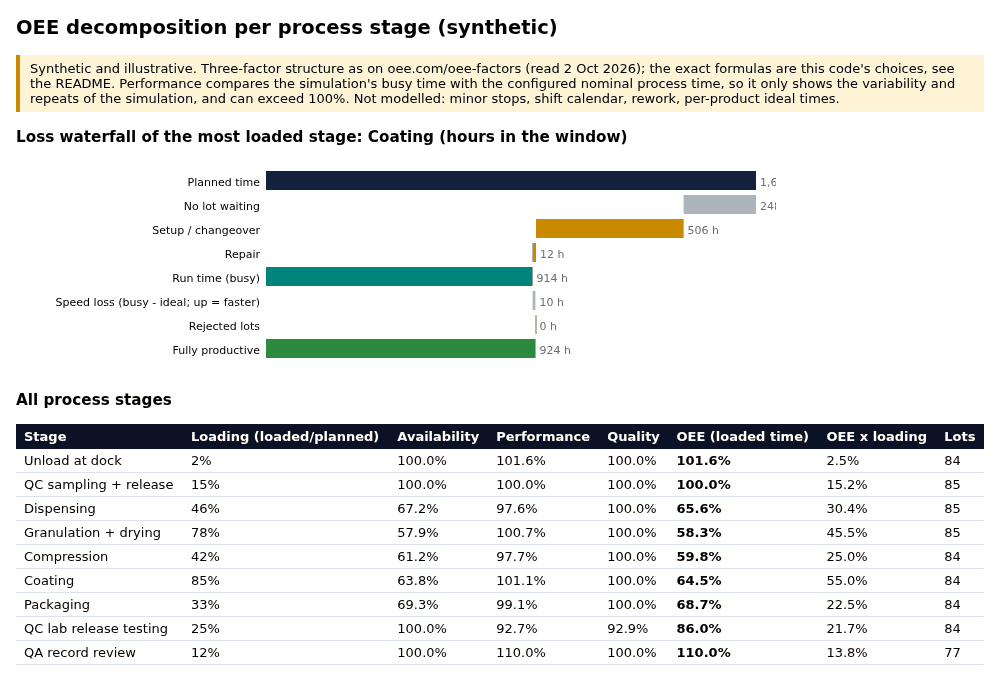
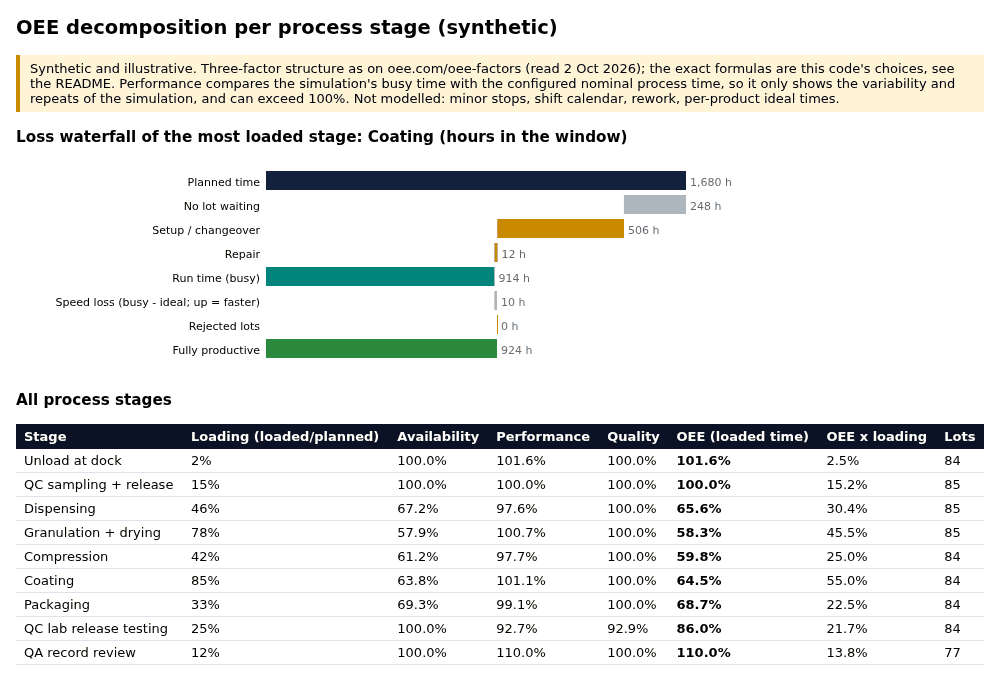
Update from bundle (tests green)

Changed region(s): [[0.62, 0.24, 0.775, 0.36], [0.496, 0.3, 0.558, 0.51]]

diff --git a/plantsim/oee.py b/plantsim/oee.py
@@ -56,7 +56,7 @@ def render_html(rows: List[Dict], focus: str = "") -> str:
              ("Rejected lots", -f["ideal_h"] * (f["rejected"] / f["lots"] if f["lots"] else 0), "#e03131"), ("Fully productive", None, "#2b8a3e")]
     W, bh, lw = 760, 24, 250
     tot = f["planned_h"]
-    sx = lambda v: lw + (W - lw - 20) * v / tot
+    sx = lambda v: lw + (W - lw - 90) * v / tot
     svg = [f'<svg width="{W}" height="{bh * len(steps) + 20}" font-size="11">']
     level = tot
     for i, (name, d, c) in enumerate(steps):
